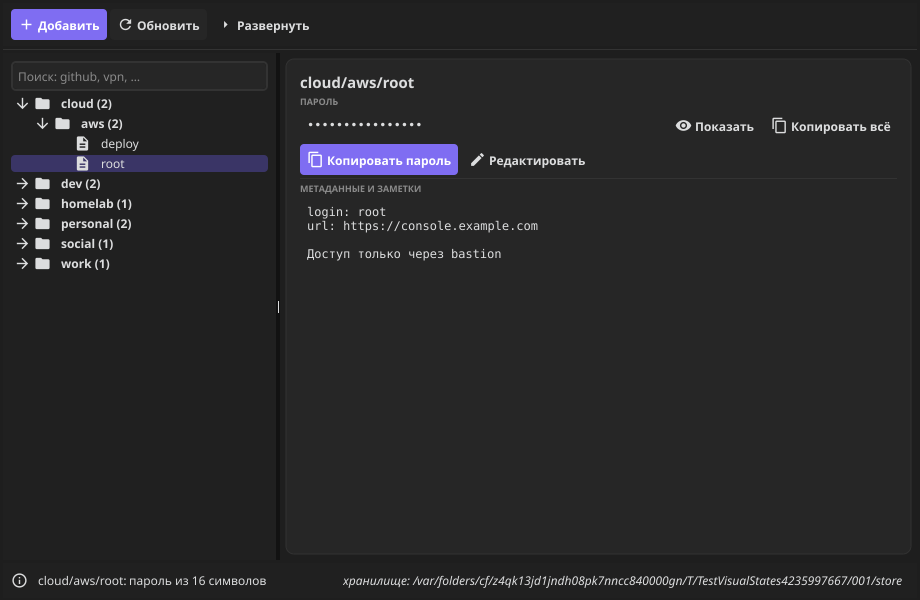
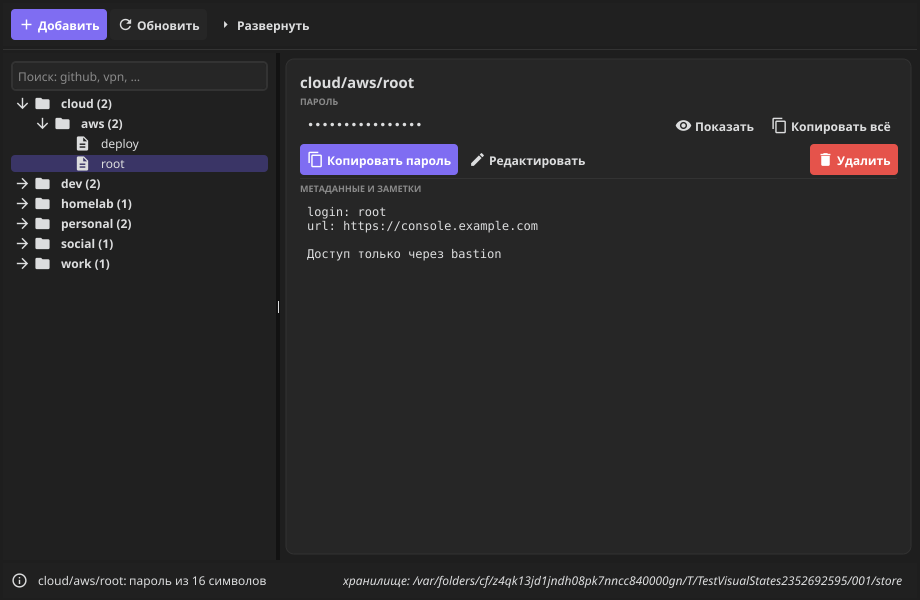
Правки по ревью PR #1: диалог удаления и безопасный шорткат
- диалог подтверждения собран через dialog.NewCustomConfirm с красной кнопкой
  (DangerImportance) вместо ShowConfirm: большая иконка «?» ломала вёрстку и
  выбивалась из стиля остальных диалогов;
- текст подтверждения больше не обещает «невозможность восстановления»:
  pass rm(--force) оставляет зашифрованный блоб в git-истории хранилища;
- ⌘⌫/Ctrl+Backspace срабатывает только когда фокус в дереве, а не при
  focused == nil (открытые диалоги без фокуса);
- pruneStaleBranches убирает удалённые ветки из savedOpen, чтобы после сброса
  поиска они не раскрывались снова;
- тест на удаление во время поиска;
- README: скриншот диалога удаления, пометка про необратимость -delete.

Changed region(s): [[0.8826, 0.24, 0.9739, 0.3], [0.8522, 0.96, 0.913, 0.99]]

diff --git a/internal/ui/app.go b/internal/ui/app.go
@@ -345,8 +345,9 @@ func (a *App) registerShortcuts() {
 
 	del := &desktop.CustomShortcut{KeyName: fyne.KeyBackspace, Modifier: ctrl}
 	a.win.Canvas().AddShortcut(del, func(fyne.Shortcut) {
-		focused := a.win.Canvas().Focused()
-		if focused == nil || focused == a.tree {
+		// Только когда фокус в дереве: при открытом диалоге без фокуса
+		// (прогресс, подтверждение) удалять ничего нельзя.
+		if a.win.Canvas().Focused() == a.tree {
 			a.confirmDelete()
 		}
 	})
@@ -1025,16 +1026,19 @@ func (a *App) confirmDelete() {
 		return
 	}
 	name := a.selected
-	dialog.ShowConfirm(
-		"Удалить запись?",
-		fmt.Sprintf("Запись «%s» будет удалена без возможности восстановления.", name),
-		func(yes bool) {
-			if yes {
-				a.deleteEntry(name)
-			}
-		},
-		a.win,
-	)
+
+	message := widget.NewLabel(fmt.Sprintf(
+		"Запись «%s» будет удалена из хранилища.\nВернуть её из приложения нельзя.", name))
+	message.Wrapping = fyne.TextWrapWord
+
+	d := dialog.NewCustomConfirm("Удалить запись?", "Удалить", "Отмена", message, func(yes bool) {
+		if yes {
+			a.deleteEntry(name)
+		}
+	}, a.win)
+	d.SetConfirmImportance(widget.DangerImportance)
+	d.Resize(fyne.NewSize(460, 200))
+	d.Show()
 }
 
 // deleteEntry removes the entry via `pass rm --force`, clears its cached
@@ -1088,6 +1092,16 @@ func (a *App) pruneStaleBranches(deletedName string) {
 			}
 		}
 	})
+	// Убираем удалённые ветки из запомненных: иначе после сброса поиска
+	// дерево попробует их раскрыть.
+	kept := a.savedOpen[:0]
+	for _, uid := range a.savedOpen {
+		if n := a.nodes[uid]; n != nil && len(n.children) > 0 {
+			kept = append(kept, uid)
+		}
+	}
+	a.savedOpen = kept
+
 	if !a.wasFiltered {
 		a.persistOpenBranches()
 	}

diff --git a/internal/ui/app_test.go b/internal/ui/app_test.go
@@ -712,3 +712,25 @@ func TestDeleteLastEntryInFolderPrunesTreeAndPrefs(t *testing.T) {
 		t.Errorf("статус-бар должен сообщать об удалении записи, получено: %q", a.status.Text)
 	}
 }
+
+func TestDeleteWhileFilteringForgetsRemovedBranch(t *testing.T) {
+	a, _ := newTestApp(t) // cloud/aws/root, dev/github, personal/mail
+
+	a.tree.Select("cloud") // раскрыли ветку
+	a.search.SetText("root")
+	if len(a.visible) != 1 || a.visible[0].Name != "cloud/aws/root" {
+		t.Fatalf("фильтр: %+v", a.visible)
+	}
+	a.selectByName("cloud/aws/root")
+	a.deleteEntry("cloud/aws/root")
+
+	if _, ok := a.nodes["cloud"]; ok {
+		t.Error("опустевшая папка cloud должна исчезнуть из дерева")
+	}
+
+	// После сброса поиска ветка не должна «воскреснуть» из savedOpen.
+	a.search.SetText("")
+	if a.tree.IsBranchOpen("cloud") {
+		t.Error("ветка удалённой папки не должна раскрываться после поиска")
+	}
+}

diff --git a/README.md b/README.md
@@ -62,6 +62,8 @@
 
 ![Редактирование записи](docs/edit-dialog.png)
 
+![Удаление записи](docs/delete-dialog.png)
+
 ## Требования
 
 * macOS 13+ (Apple Silicon или Intel) или Linux с графической сессией;
@@ -138,7 +140,7 @@ Workflow использует `macos-latest` (macOS 26, arm64), собирает
 | `-list` | напечатать имена записей и выйти |
 | `-show NAME` | напечатать содержимое записи и выйти |
 | `-copy NAME` | скопировать пароль записи в буфер обмена и выйти |
-| `-delete NAME` | удалить запись и выйти |
+| `-delete NAME` | удалить запись и выйти (без подтверждения — для скриптов, операция необратима) |
 | `-version` | версия |
 
 Примеры без GUI (удобно для скриптов и проверки):
